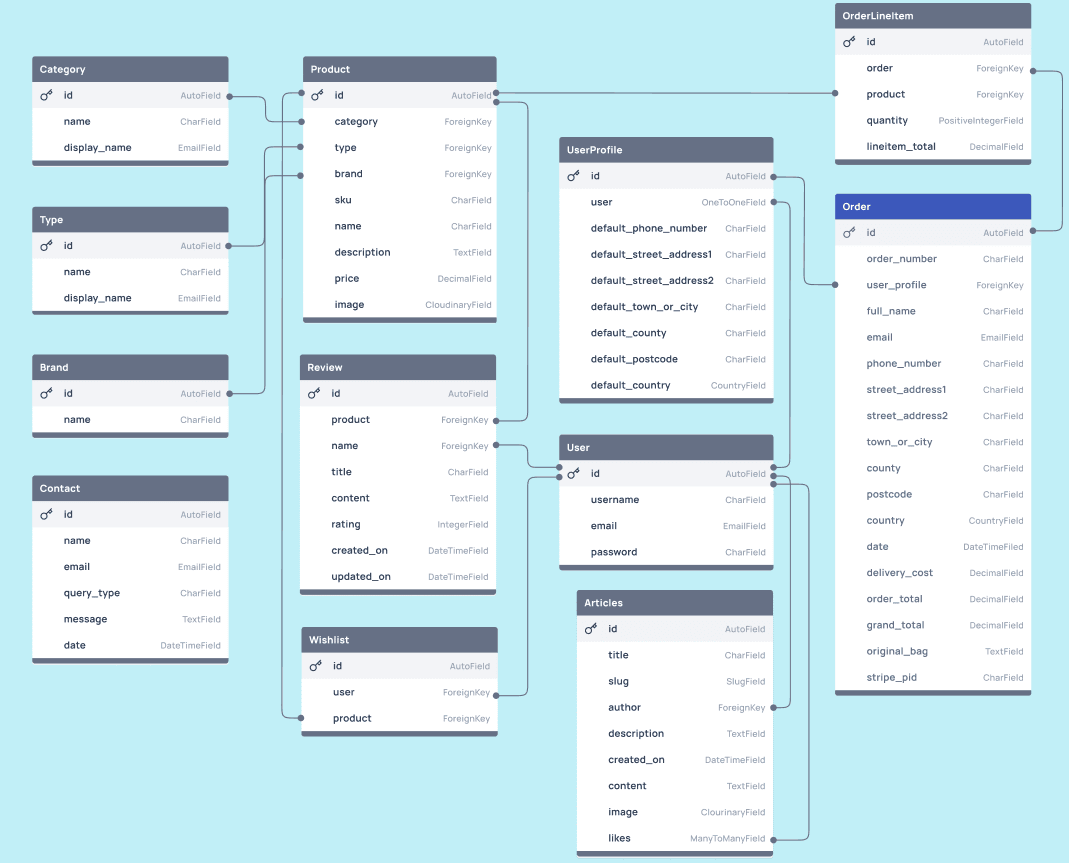
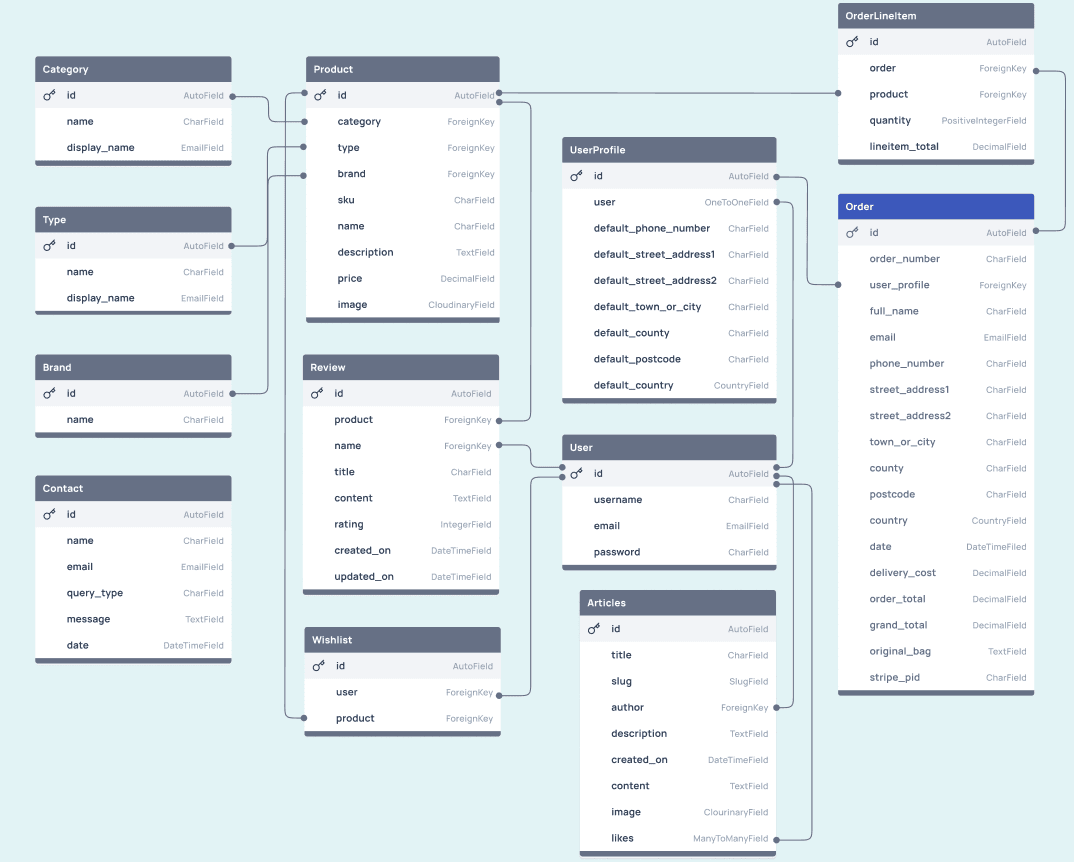
Replace database schema image & correct typhographical errors

diff --git a/README.md b/README.md
@@ -167,7 +167,6 @@ The following User Stories were not implemented. Please see the details in the F
 * As a Business Owner/Staff, I can respond to a product review posted by a shopper so that I can provide clarification or feedback where appropriate.
 
 * As a Site User, I can delete my user profile so that I can remove my personal information from the site.
-
 <br>  
 
 [Back to top &uarr;](https://github.com/ShizukaDonaghue/luve/tree/main)  
@@ -209,8 +208,7 @@ An Entity Relationship Diagram was created using [Figma](https://www.figma.com/)
 
 The intention was to utilise Django-AllAuth for the user authentication system and create other custom models. 
 
-<img src="docs/images/database.png">
-
+<img src="docs/images/database.png">  
 <br>  
 
 [Back to top &uarr;](https://github.com/ShizukaDonaghue/luve/tree/main)  
@@ -256,8 +254,7 @@ The logo for the site was created using the same colour palette to be consistent
 ### Typography
 The font used throughout the site is Signika which is imported from [Google Fonts](https://fonts.google.com/). Sans-serif is the backup font in case the main font is not available.
 
-<img src="docs/images/font.png" width=180>
-
+<img src="docs/images/font.png" width=180>   
 <br>  
 
 [Back to top &uarr;](https://github.com/ShizukaDonaghue/luve/tree/main)  
@@ -309,8 +306,6 @@ A Facebook Business page has been created to promote the business. The business 
 ## Email Marketing
 
 [Mailchimp](https://mailchimp.com/) was used to set up the newsletter sign-up form embedded in the footer. Users just need their email address to sign up and the business can use this mailing list to share information about their business to existing and potential customers directly, including special offers and sales. 
-
-
 <br>  
 
 [Back to top &uarr;](https://github.com/ShizukaDonaghue/luve/tree/main)  
@@ -464,7 +459,7 @@ Once the checkout form is completed correctly, the payment is processed by Strip
 
 In order to test the payment process, the following card details were used. 
 
-<img src="docs/images/stripe-test-card.png" width=570>  
+<img src="docs/images/stripe-test-card.png" width=630>  
 
 ### Checkout Success Page
 
@@ -474,7 +469,7 @@ Once the checkout is processed, the user is navigated to the Checkout Success pa
 
 An email confirmation is also sent to the user, confirming the order.  
 
-<img src="docs/images/testing/order-confirmation-email.png" width=420>   
+<img src="docs/images/testing/order-confirmation-email.png" width=440>   
 
 
 ### My Profile Page
@@ -533,11 +528,11 @@ The Contact Success page confirms that a query has been received from the user.
 
 An email confirmation is also sent to the user, notifying them that their message has been received. 
 
-<img src="docs/images/contact-thank-you.png" width=300>  
+<img src="docs/images/contact-thank-you.png" width=310>  
 
 Another email is sent to the business to notify them of the new message. This email includes the message and contact details of the customer, so they can respond to the customer directly from their inbox.  
 
-<img src="docs/images/testing/query-email-to-store.png" width=350>  
+<img src="docs/images/testing/query-email-to-store.png" width=365>  
 
 ### Error Pages
 
@@ -564,7 +559,6 @@ It would be a nice feature if the business could respond to product reviews post
 ### User Profile Deletion
 
 An option for users to be able to delete their own profile would be a good addition so that users can remove their personal information from the site. This would also clean up the database for easier maintenance. This is from User Story [#52](https://github.com/ShizukaDonaghue/luve/issues/52).
-
 <br>  
 
 [Back to top &uarr;](https://github.com/ShizukaDonaghue/luve/tree/main)  
@@ -615,12 +609,8 @@ An option for users to be able to delete their own profile would be a good addit
 * [JSHint](https://jshint.com/) was used to validate JavaScript codes.
 * [CI Python Linter](https://pep8ci.herokuapp.com/) was used to validate Python codes.
 
-<br>
-
 # Testing
 For the full details of the testing executed, please see [TESTING.md](https://github.com/ShizukaDonaghue/luve/blob/main/TESTING.md).
-
-
 <br>  
 
 [Back to top &uarr;](https://github.com/ShizukaDonaghue/luve/tree/main)  
@@ -827,9 +817,6 @@ Cloning the Repository on GitHub:
 4. Type "git clone" and then paste the URL copied from GitHub
 5. Press "Enter" and the local clone will be created
 
-<br>
-
-
 # Credit
 
 ## Content
@@ -855,9 +842,6 @@ Information on sunscreen was from:
 # Acknowledgements
 LUVE was created as a portfolio 5 project for the Full Stack Software Development course at UCD Professional Academy and Code Institute.
 
-I would like to thank [Simen Daehlin](https://github.com/Eventyret) at Code Institute for his valuable feedback and guidance and for his patience and time in answering all the questions during the class and also in Slack!
-
-
-<br>  
+I would like to thank [Simen Daehlin](https://github.com/Eventyret) at Code Institute for his valuable feedback and guidance and for his patience and time in answering all the questions during the class and also in Slack!<br>  
 
 [Back to top &uarr;](https://github.com/ShizukaDonaghue/luve/tree/main)    
